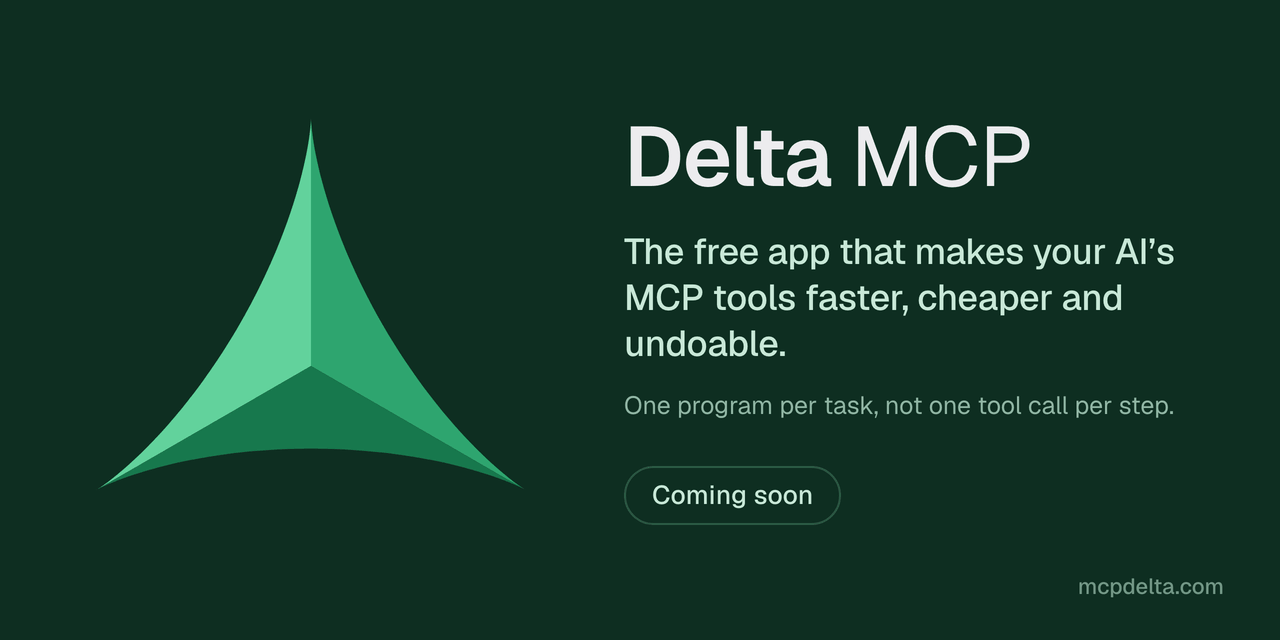
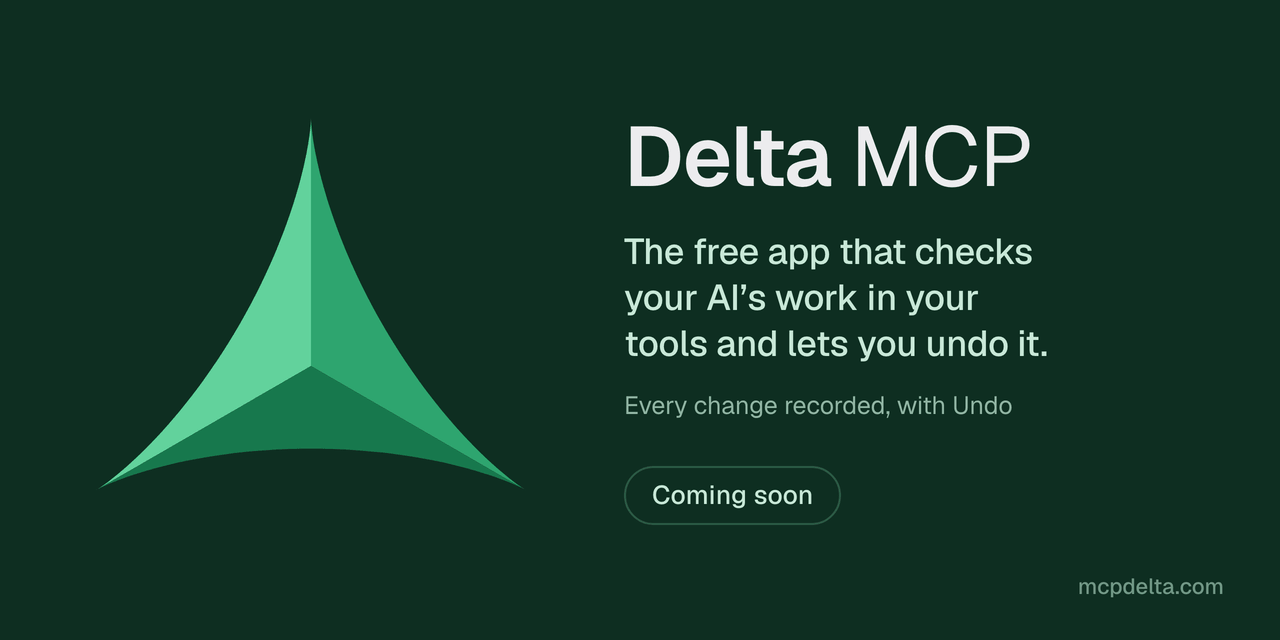
README : la confiance d'abord (ligne de marque, définition, trois piliers, FAQ « What is Delta MCP? »), les jetons restent sous « Measured » ; image sociale à jour

Changed region(s): [[0.4688, 0.375, 0.9375, 0.5625], [0.4688, 0.625, 0.9062, 0.6562]]

diff --git a/README.md b/README.md
@@ -7,7 +7,7 @@
   </picture>
 </h1>
 
-<p><strong>The free app that makes your AI’s MCP tools faster, cheaper and undoable.</strong></p>
+<p><strong>The free app that checks your AI’s work in your tools and lets you undo it.</strong></p>
 
 <p>
   <a href="https://www.mcpdelta.com">Website</a> ·
@@ -19,7 +19,7 @@
 
 </div>
 
-Delta MCP is a free app that sits between your AI apps and their MCP servers. Your AI does each task as one program instead of one tool call per step. Delta MCP checks it before the first call, makes the fewest calls, all or nothing, reads the result back, records it and can undo it. It works with the MCP servers you already use.
+Delta MCP is a free app that sits between your AI apps and their MCP servers (Notion, GitHub, your files…). It checks each task before it runs, applies it all or nothing, reads back what it changed and lets you undo it.
 
 > **Coming soon.** Delta MCP is almost here, for macOS, Windows and Linux: free, no account. Follow the launch and you’ll know the moment it’s out, with no email address: [RSS](https://www.mcpdelta.com/feed.xml), or **Watch → Custom → Releases** on this repository.
 
@@ -29,11 +29,11 @@ Delta MCP is a free app that sits between your AI apps and their MCP servers. Yo
 
 ## What it does
 
-Your AI becomes a developer, not an executor. Instead of reading, deciding, calling one tool, waiting and reading again, it writes the whole task once.
+Let your AI act on your tools, without crossing your fingers.
 
-1. **Ctrl+Z for your AI’s work.** Every task lands in Activity with each change before and after. Undo it right away, and in some cases later, by you or by your AI: your AI writes how to undo each step, and they run in reverse order if a later step fails or you click Undo. Before you click, you see what will be put back and what can’t, like a message already sent. It never says everything is undone without proof.
-2. **One program per task, not one call per step.** Your AI writes the task as one short program. Your MCP servers stay exactly as they are, and every original tool stays callable by name.
-3. **Checked, applied all or nothing, read back.** Delta MCP checks the program before the first call, makes the fewest calls, applies them all or nothing, then reads the result back.
+1. **You decide before.** For each tool, choose what your AI may do alone: only read, ask before deleting or sending, or ask every time. When it asks, you see each change before and after.
+2. **You see what happened.** Every change is recorded with its before and after, written by Delta MCP, not by your AI. It checks results in the tool when it can, and if a connection drops it checks before doing anything twice.
+3. **You can go back.** Undo puts back what can be put back, and tells you before you click what can’t, like a message already sent.
 4. **Automate the tasks you repeat.** Set it once. Delta MCP runs it every day, on weekdays, every Monday or every hour, at a very low cost, and your AI steps in only when the task needs thinking. Analyze last night’s Grafana logs and send your team a report. Follow the market every morning. Close finished tickets every Friday. Delta MCP runs it for free, no AI needed. When it needs analysis, your AI takes the run at the time you set, then reports, emails or acts on what it finds. Tell your AI what to automate and it creates it in Delta MCP. You test it, sign once, and it pauses and tells you after two failures.
 
 <p align="center">
@@ -113,7 +113,11 @@ The free app for macOS, Windows and Linux is coming soon. There is nothing to in
 
 ### What is Delta MCP?
 
-Delta MCP is a free app that sits between your AI apps and their MCP servers. Your AI does each task as one program instead of one tool call per step. Delta MCP checks it before the first call, makes the fewest calls, all or nothing, reads the result back, records it and can undo it. It works with the MCP servers you already use.
+Delta MCP is a free app that sits between your AI apps (Claude, Cursor, VS Code…) and the tools they use, like Notion, GitHub or your files. It checks each task before it runs, makes every change or none, keeps a record of every change and lets you undo what can be undone. Technically, your AI writes each task as one program; Delta MCP checks it before the first call, applies it all or nothing, reads the result back and talks to your MCP servers as they are, with far fewer tokens on tasks of several steps.
+
+### What is MCP?
+
+MCP (Model Context Protocol) is the standard that lets AI apps like Claude, Cursor or VS Code use other apps and services, such as Notion or GitHub. Each service offers its tools through an MCP server, also called a connector. Delta MCP sits between your AI and those servers; you don’t need to know more than that to use it.
 
 ### Is Delta MCP really free?
 
@@ -122,6 +126,14 @@ Yes. Every feature is in the free app, with no account and no limit on servers. 
 ### Is Delta MCP open source?
 
 No. Delta MCP is a free app, and its source code is not public. How it works is written out in the docs, how it is measured is on the benchmarks page, and everything it does on your computer is recorded in Activity. This repository only presents the app.
+
+### What happens if a task fails halfway?
+
+Changes to things like a status, a label or a page are put back and checked, so nothing is left half done. A step already made through a tool as it is stays made, and Delta MCP lists it so your AI doesn’t make it twice. If an answer gets lost on the way, Delta MCP checks, when it can, whether the change happened before anything is redone, and never resends a message on its own. Undo puts back what can be put back and says what can’t, like a message already sent.
+
+### My AI app already asks before it acts. What does Delta MCP add?
+
+When you want a yes first, Delta MCP’s card shows what will change, before and after, instead of only naming the tool that will run. Then it makes every change or none, checks the result and keeps an Undo. You choose, for each tool, what needs your yes and what your AI may do alone.
 
 ### Which AI apps does Delta MCP work with?
 
@@ -173,7 +185,7 @@ No. Automations run on your computer and are part of the free app. When Delta MC
 
 ## Learn more
 
-- [How Delta MCP works](https://www.mcpdelta.com/how-it-works): your AI writes the program.
+- [How Delta MCP works](https://www.mcpdelta.com/how-it-works): your AI writes the task as one program, Delta MCP checks it and lets you undo it.
 - [Docs](https://www.mcpdelta.com/docs), [security and privacy](https://www.mcpdelta.com/security) and [pricing](https://www.mcpdelta.com/pricing).
 - [How to reduce MCP token usage, and why MCP burns tokens](https://www.mcpdelta.com/guides/reduce-mcp-token-usage)
 - [Claude Code usage limit reached? What your MCP servers cost](https://www.mcpdelta.com/guides/claude-code-usage-limit-mcp)
